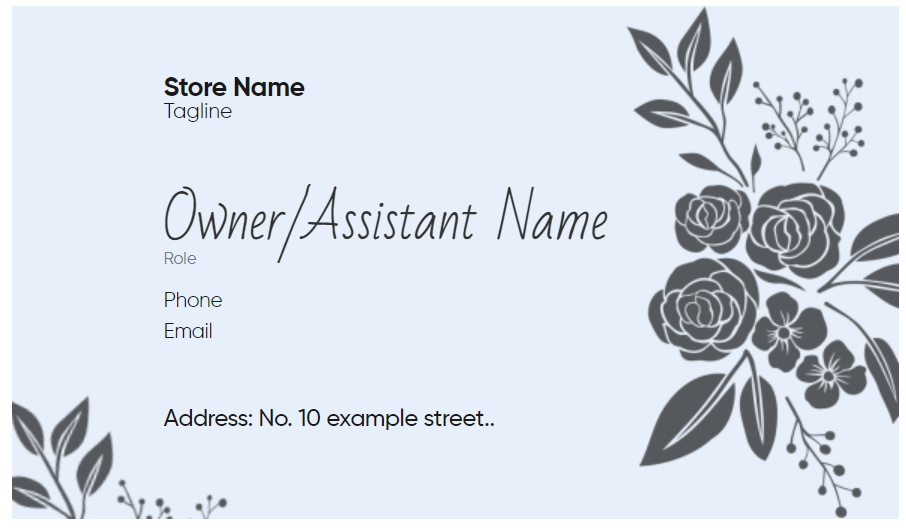
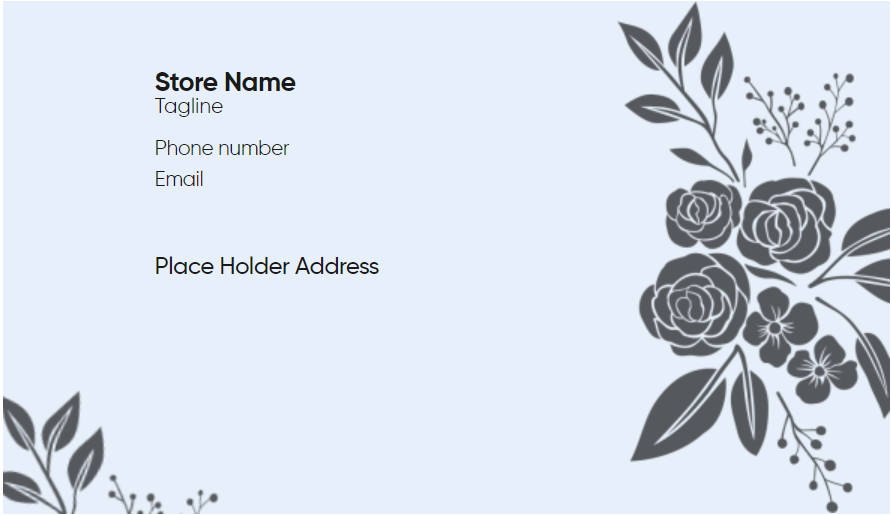
fixed view for business card

diff --git a/resources/views/backend/stores/show.blade.php b/resources/views/backend/stores/show.blade.php
@@ -226,7 +226,7 @@ $total_interestReceivables += $each_interestReceivables;
                 <div class="text-center">
                     <h6>Choose Business Card</h6>
                 </div>
-                <div id="carouselExampleIndicators" class="carousel slide " data-ride="carousel" data-pause="hover">
+                {{-- <div id="carouselExampleIndicators" class="carousel slide " data-ride="carousel" data-pause="hover">
                     <ol class="carousel-indicators">
                       <li 
                       data-target="#carouselExampleIndicators" 
@@ -263,9 +263,21 @@ $total_interestReceivables += $each_interestReceivables;
                       <span class=" text-dark" aria-hidden="true"> <i class="fa fa-chevron-right"></i></span>
                       <span class="sr-only">Next</span>
                     </a>
+                </div> --}}
+
+                <div class="row" id="gallery" data-toggle="modal" data-target="#exampleModal">
+                    <div class="col-6 col-md-4 col-lg-12">
+                      <img class="w-100" src="{{asset('backend/assets/images/card_v2.PNG')}}" data-target=”#carouselExamples” data-slide-to="0">
+                    </div>
+                    <div class="col-6 col-md-4 col-lg-12">
+                      <img class="w-100" src="{{asset('backend/assets/images/card_vv1.PNG')}}" data-target=”#carouselExamples” data-slide-to="1">
+                    </div>
+                   
                 </div>
 
-                <div class="text-center padup">
+
+
+                {{-- <div class="text-center padup">
                 <form action="{{route('preview', $storeData->_id)}}" method="post" id="preview-form">
                     @csrf
                         <input type="hidden" name="version" class="version">
@@ -282,7 +294,7 @@ $total_interestReceivables += $each_interestReceivables;
                     class="btn btn-primary mr-2">
                     <i class="far mr-2 fa-card"></i>
                     Preview</button>
-                </div>
+                </div> --}}
 
             </div>
         </div>
@@ -477,6 +489,66 @@ $total_interestReceivables += $each_interestReceivables;
         </div>
       </div>
     </div>
+</div>
+
+
+
+  <div class="modal fade" id="exampleModal" tabindex="-1 role="dialog" aria-hidden="true">
+    <div class="modal-dialog" role="document">
+      <div class="modal-content">
+        <div class="modal-header">
+            <h5 class="modal-title">Available Cards</h5>
+          <button type="button" class="close" data-dismiss="modal" aria-label="Close">
+            <span aria-hidden="true">&times;</span>
+          </button>
+        </div>
+        <div class="modal-body">
+          <!-- Carousel markup goes in the modal body -->
+          
+          <div id="carouselExamples" class="carousel slide" data-ride="carousel">
+            <div class="carousel-inner">
+              <div class="carousel-item active"  data-version="v2">
+                <img class="d-block w-100" src="{{asset('backend/assets/images/card_v2.PNG')}}">
+              </div>
+              <div class="carousel-item"  data-version="v1">
+                <img class="d-block w-100" src="{{asset('backend/assets/images/card_vv1.PNG')}}">
+              </div>
+              </div>
+            </div>
+            <a class="carousel-control-prev" href="#carouselExamples" role="button" data-slide="prev">
+              <span  aria-hidden="true" class="text-dark"><i class="fa fa-chevron-left"></i></span>
+              <span class="sr-only" class="text-dark">Previous</span>
+            </a>
+            <a class="carousel-control-next" href="#carouselExamples" role="button" data-slide="next">
+              <span  aria-hidden="true" class="text-dark"><i class="fa fa-chevron-right"></i></span>
+              <span class="sr-only" class="text-dark">Next</span>
+            </a>
+          </div>
+        </div>
+        {{-- <div class="modal-footer">
+          <button type="button" class="btn btn-secondary" data-dismiss="modal">Close</button>
+        </div> --}}
+        
+    </div>
+    <div class="text-center padup">
+        <form action="{{route('preview', $storeData->_id)}}" method="post" id="preview-form">
+            @csrf
+                <input type="hidden" name="version" class="version">
+            </form>
+            <button
+            data-toggle="modal" 
+            data-target="#downloadModal"
+            id="first_download"
+                    class="btn btn-success mr-2">
+                    <i class="far mr-2 fa-card">
+                </i>Download</button>
+            <button
+            
+            id="preview"
+            class="btn btn-primary mr-2">
+            <i class="far mr-2 fa-card"></i>
+            Preview</button>
+  </div>
   </div>
 
 
@@ -561,17 +633,25 @@ $total_interestReceivables += $each_interestReceivables;
     });
 
 
+    $("#first_download").click(function(){
+        $("#exampleModal").modal('hide');
+    })
+
+
     $('#preview').click(function(){
-        let activeSlide = $(".slides.active");
+        let activeSlide = $(".carousel-item.active");
         let version = activeSlide.data('version');
+        
         $(".version").val(version);
         $("#preview-form").submit();
         // console.log();
     })
 
     $('#download').click(function(){
-        let activeSlide = $(".slides.active");
+        
+        let activeSlide = $(".carousel-item.active");
         let version = activeSlide.data('version');
+      
         $(".version").val(version);
         $("#download-form").submit();
         $("#downloadModal").modal('hide');

diff --git a/resources/views/backend/cards/card_v1.blade.php b/resources/views/backend/cards/card_v1.blade.php
@@ -33,17 +33,20 @@
         <div class="div2">
             <h1 class="hh1">{{$store_details->store_name}}</h1>
         <p class="hh2">{{$store_details->tagline}}</p>
-            <img src="{{public_path('backend/assets/images/vector_3.png')}}" alt="" class="img10">
+            {{-- <img src="{{public_path('backend/assets/images/vector_3.png')}}" alt="" class="img10">
             <p class="hh3">{{Cookie::get('first_name') ." ". Cookie::get('last_name') }}</p> <br>
-        <p class="hh4">{{Cookie::get('user_role')}}</p>
-            <img src="{{public_path('backend/assets/images/vector_4.png')}}" alt="" class="img11">
+        <p class="hh4">{{Cookie::get('user_role')}}</p> --}}
+            <img src="{{public_path('backend/assets/images/Vector_4.png')}}" alt="" class="img11">
             <p class="hh5">{{$store_details->phone_number}}</p><br>
-            <div class="div3">
-                <img src="{{public_path('backend/assets/images/vector_5.png')}}" alt="" class="img12"> 
+            @isset($store_details->email)
+               <div class="div3">
+                <img src="{{public_path('backend/assets/images/Vector_5.png')}}" alt="" class="img12"> 
                 <p class="hh6">{{$store_details->email}}</p>
-            </div>
+            </div> 
+            @endisset
+            
             <div class="div4">
-                <img src="{{public_path('backend/assets/images/vecto_6.png')}}" alt="" class="img13"> 
+                <img src="{{public_path('backend/assets/images/Vecto_6.png')}}" alt="" class="img13"> 
                 <p class="hh7">{{$store_details->shop_address}}</p>
             </div>
 

diff --git a/resources/views/backend/cards/card_v2.blade.php b/resources/views/backend/cards/card_v2.blade.php
@@ -33,11 +33,14 @@
             <h4 class="hh2">{{$store_details->tagline}}</h4>
 
 
-            <h1 class="hh3">{{Cookie::get('first_name') ." ". Cookie::get('last_name') }}</h1>
-            <h5 class="hh4">{{Cookie::get('user_role')}}</h5>
+            {{-- <h1 class="hh3">{{Cookie::get('first_name') ." ". Cookie::get('last_name') }}</h1>
+            <h5 class="hh4">{{Cookie::get('user_role')}}</h5> --}}
 
             <h4 class="hh5">{{$store_details->phone_number}}</h4>
-            <h4 class="hh6">{{$store_details->email}}</h4>
+            @isset($store_details->email)
+               <h4 class="hh6">{{$store_details->email}}</h4>  
+            @endisset
+           
 
             <h4 class="hh7">{{$store_details->shop_address}}</h4>
         </div>

diff --git a/app/Http/Controllers/BroadcastController.php b/app/Http/Controllers/BroadcastController.php
@@ -28,7 +28,7 @@ class BroadcastController extends Controller
      *
      * @return \Illuminate\Http\Response
      */
-    public function index()
+    public function index(Request $request)
     {
         $url = env('API_URL', 'https://dev.api.customerpay.me') . '/store';
 
@@ -48,7 +48,7 @@ class BroadcastController extends Controller
             }
         } catch (RequestException $e) {
             Log::error('Catch error: Create Broadcast' . $e->getMessage());
-            $response->session()->flash('message', 'Failed to fetch customer, please try again');
+            $request->session()->flash('message', 'Failed to fetch customer, please try again');
             return view('backend.broadcasts.index');
         }
     }
